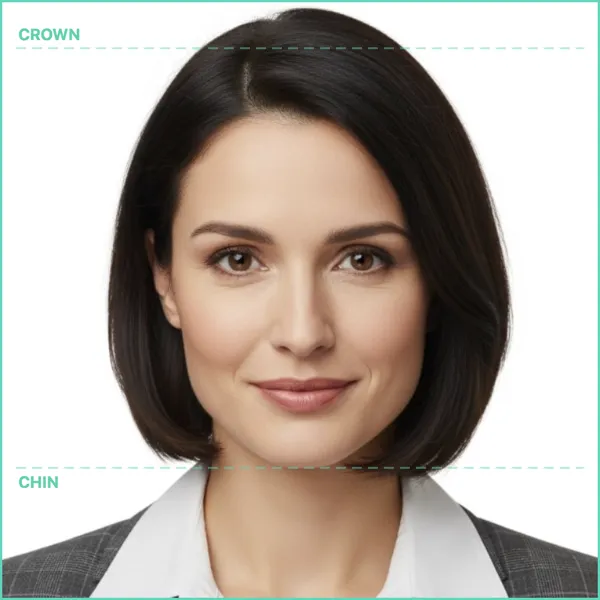
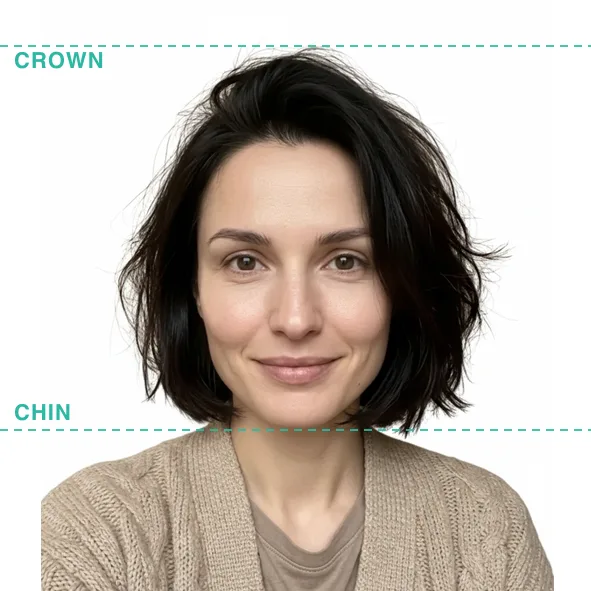
[log] 7/6 iMac/민아 승계 세션 마감 — 결제 회수 체계 봉합·크롭 파이프라인 가동·410국 개방·가이드 정합, prod 00396~00406

diff --git a/monkos_AI/portal/lib/cms/render-specs.js b/monkos_AI/portal/lib/cms/render-specs.js
@@ -1455,7 +1455,8 @@ a:hover { color: #5a3de6; }
   position: relative; min-height: 280px;
 }
 .v2-photo-frame {
-  width: 160px; height: 206px; background: #e8e9ed; border-radius: 6px;
+  /* 프레임 비율 = 규격 비율 (인라인 --spec-ar로 페이지별 주입, 2026-07-06 정합 — 종전 160×206 고정이 정사각 규격을 세로로 왜곡) */
+  width: 160px; aspect-ratio: var(--spec-ar, 35/45); background: #e8e9ed; border-radius: 6px;
   border: 1px solid rgba(0,0,0,0.08); position: relative;
   display: flex; align-items: center; justify-content: center;
   overflow: hidden; box-shadow: 0 4px 16px rgba(0,0,0,0.08);
@@ -2015,7 +2016,11 @@ ${hreflangTags}
         </table>
       </div>
       <div class="v2-diagram-wrap">
-        <div class="v2-photo-frame">
+        <div class="v2-photo-frame"${(() => {
+          // 규격 비율을 프레임에 주입 — 정사각(51x51)이 세로 틀로 왜곡되던 정합 사고 (2026-07-06)
+          const mm = (sizeMm || '').split('x').map(Number);
+          return (mm.length === 2 && mm[0] > 0 && mm[1] > 0) ? ` style="--spec-ar:${mm[0]}/${mm[1]}"` : '';
+        })()}>
           <img src="${imgSrc}" alt="${escapeHtml(countryName)} ${escapeHtml(typeName)}"
                onerror="this.src='${fallbackSrc}';this.onerror=function(){this.style.display='none'}">
           <div class="v2-dim-head">${escapeHtml(locField(specData, 'headHeight', lang))}</div>

diff --git a/monkos-ops/ops/sessions/2026-07/2026-07-06_iMac_민아.md b/monkos-ops/ops/sessions/2026-07/2026-07-06_iMac_민아.md
@@ -3,7 +3,7 @@ type: session_log
 date: 2026-07-06
 device: iMac
 agent: 민아
-status: 진행
+status: 마감
 ---
 
 # 2026-07-06 iMac/민아 세션 로그
@@ -159,3 +159,33 @@ status: 진행
 - [승인·작가님] 정사각 게이트 개방 — "IDPASS는 200개국 다 맞추는데, 이번 작업은 크롭 엔진의 백엔드 자동화" 프레임 확정. 게이트는 크롭 부재 시절의 임시 보수 조치였음.
 - ✅ isEngineCompatibleSpec 완화: h/w ≥ 1.15 → **≥ 1.0 (정사각 허용)**, 흰배경 요건 유지. **+49국 개방(미국 여권·비자 포함) → 410국 × 3언어 V2+결제 체제**. 잔존 제외: 유색 배경 16국(엔진 순백 고정) + 비정형 2국 + 가로형.
 - ✅ jest 88/88 · dev 00068 검증(us-visa/us-passport V2 전환, fr 잔존, kr 회귀 무결) → **prod 00405-d57** (ko/en 실서빙 확인).
+
+**[2026-07-06 20:13 KST]** iMac/민아 → 작가님
+- [지적·작가님] 가이드 이미지 틀 불일치(정사각 규격이 세로 틀로 왜곡) + 생성물 어깨선 부족(내일 이월). 지시: 전 페이지 가이드 정합 + DB를 발급보장 걸 수 있는 수준으로.
+- ✅ **가이드 틀 정합**: `.v2-photo-frame` 160×206 고정 → 규격 비율 인라인 주입(`--spec-ar`) — 전 페이지가 자기 규격 비율로 렌더.
+- ✅ **가이드 이미지 25종 재생성**: crop-engine v2로 실측 안착 후 CROWN/CHIN 라인을 측정 좌표에 오버레이 — 가이드가 제품과 동일 엔진의 산출물. jest 88/88, dev 00069 → **prod 00406-cr2** (--spec-ar 51/51·35/45, 51x51.webp 실서빙 확인).
+- ✅ **DB 무결성 감사(428건)**: size·pixels·dpi·headHeight 교차 검증 — head비상식 0, dpi비정상 0, px파싱불가 0. 요확인 4건(sg-passport px 400x514 표기 — 싱가포르 공식 디지털 규격 가능성 / ru·ng-passport·ng-visa 표기 413x531 vs size 계산 826x1062 — size 필드 진위 확인 필요) + 기지 예외(size 비정형 2, headHeight 무규정 5 — 기본 비율 폴백으로 크롭 동작).
+
+## 완료 사항 (승계 세션)
+- [x] 헤드샷 "다시 생성" 재생성 동작 수정 (startGenerateFlow 공용화) — prod 00396
+- [x] **크레딧 결제 시스템 총점검(F1~F6) + 당일 봉합**: 토스 취소 웹훅 신설·refund 차감대조 가드·confirm 세션 바인딩·krwRate 정정 — prod 00398, 토스 대시보드 웹훅 등록(작가님)
+- [x] **취소 회수 라이브 실증**: 토스 충전 취소 80c 자동 회수(17:04) + 레몬 단건 환불 토큰 무효화(07-05 로그 확인)
+- [x] 텔레그램 경보 침묵 실패 해소(Markdown 파스 폴백) — prod 00400
+- [x] 헤드샷 402 위저드 안내·사진 부활(1회성 복원)·잔액 조회 userId 생략 — prod 00399·00401·00402·00404
+- [x] **스펙스 규격 크롭 안착 파이프라인 마감**: Phase 0 실측(옵션 A 탈락) → v2 실측 앵커, crop-engine 배포(Node22), portal 통합(426/428) — prod 00403
+- [x] **정사각 게이트 개방 +49국 → 410국 × 3언어 V2+결제** — prod 00405
+- [x] **가이드 이미지 전 페이지 정합**: 프레임 규격 비율 주입 + 25종 실측 재생성 — prod 00406
+- [x] crop-engine 서비스 편입(ch4 5조 + SPEC 정본) · PF_PORTAL·PF_SPECS 히스토리 · jest 61→88
+
+## TODO (이월)
+- [ ] **생성물 어깨선 부족 해결 (작가님 내일 1순위)** — 원본 프레이밍 여유 확보: 생성 프롬프트 와이드 지시 or 크롭 스케일 여유 검토
+- [ ] DB 요확인 4건: sg-passport(공식 px 여부)·ru-passport·ng-passport·ng-visa(size 필드 진위) — 발급보장급 데이터 확정
+- [ ] 유색 배경 16국 개방 여부 — 순백→규격색 재채색 단계 추가 검토
+- [ ] 발급보장 T2 상품화(idphoto-kr/jp 반려 시 100% 환불) — 쌍아 기안: 환불정책 예외조항·반려 증빙 기준·UI 배지
+- [ ] 40c ₩4,900 팩 신설 여부 + specs "추가 충전 40c" 문구 정합 — 단가 통일 상위 결정과 묶음
+- [ ] 크레딧 팩 3벌 혼재 정합 감사 + credits.test.js 구정책 테스트 정리
+- [ ] 쌍아 사후 추인: 경로③ 수행분 일괄(결제 봉합·크롭 파이프라인·게이트 개방·서비스 편입·deploy-cr 스킬 맵·DESIGN_20260705 상태 갱신)
+- [ ] 발급보장 업셀 링크 처분 · 글로벌USD통합 기안 (기존 이월 유지)
+
+---
+**세션 종료: 20:13 KST**
